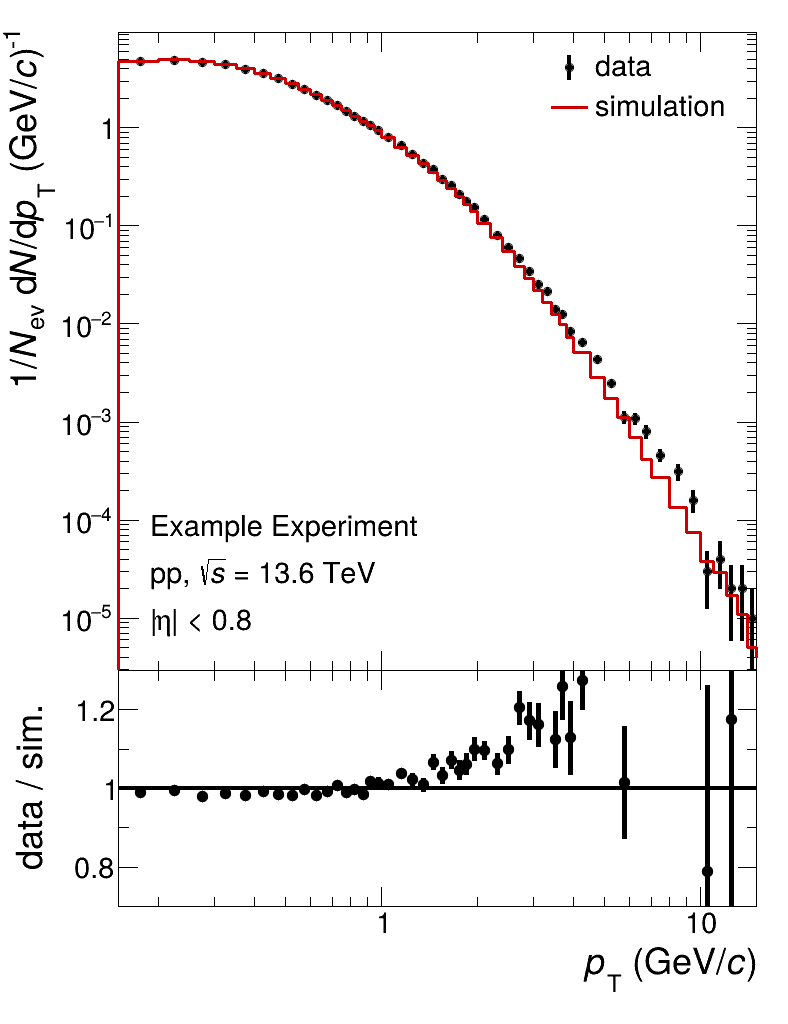
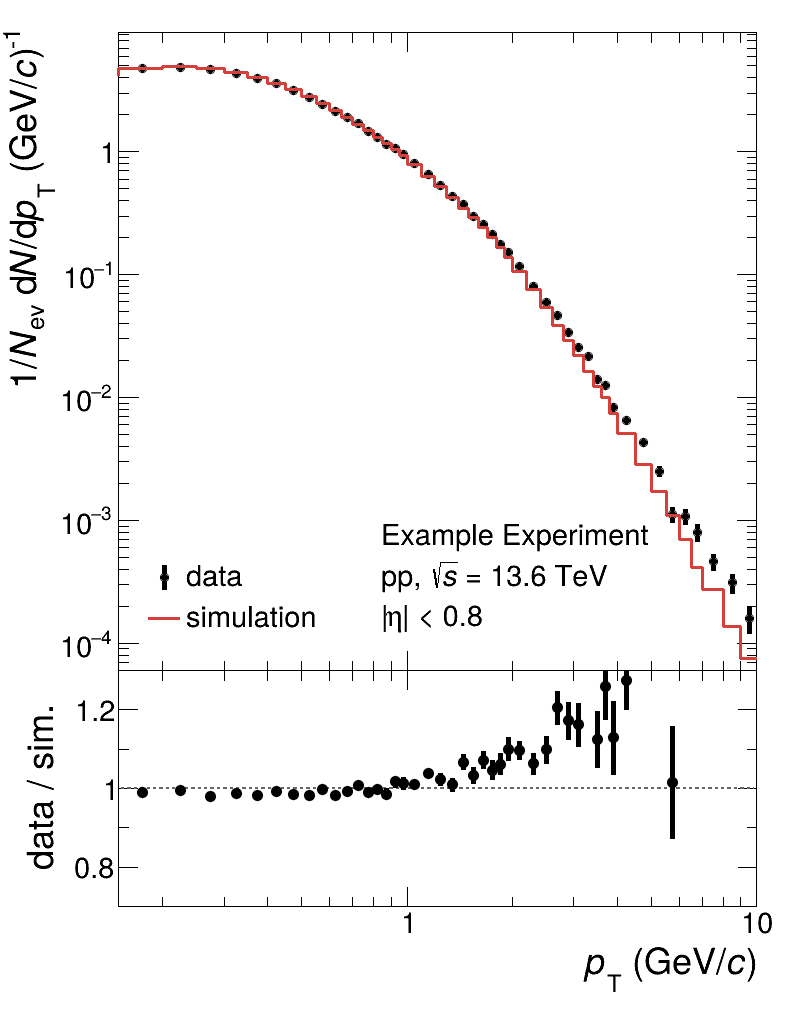
root macro and snippet of the spectrum ratio as the example plot

diff --git a/docs/site/template.html b/docs/site/template.html
@@ -2437,14 +2437,15 @@ plot = Plot("ptSpectrumRatio", "spectra", "1d_ratio")
 plot[1].AddData("ptSpec", "data", "data") \\
        .SetMarker(kFullCircle, 1.0, kBlack)
 plot[1].AddData("ptSpec", "mc", "simulation") \\
-       .SetDrawOption(hist_open).SetLine(kSolid, 3.0, kRed + 1)
+       .SetDrawOption(hist_open).SetLine(kSolid, 3.0, "#d6403a")
 plot[1].AddLegend()
 plot[1].AddText(["Example Experiment",
                  "pp, #sqrt{#it{s}} = 13.6 TeV", "|#eta| < 0.8"])
 plot[1]['Y'].SetLog()
-plot[2].AddRatio(["ptSpec", "data"], ["ptSpec", "mc"])
+plot[2].AddRatio(["ptSpec", "data"], ["ptSpec", "mc"]).SetRangeX(0.15, 6.0)
+plot[2].SetRefFunc("1").SetLine(kDashed, 2.0, kGray + 2)
 plot[2]['Y'].SetTitle("data / sim.").SetRange(0.7, 1.3)
-plot[0]['X'].SetLog().SetRange(0.15, 15.0)
+plot[0]['X'].SetLog().SetRange(0.15, 10.0)
 pm.AddPlot(plot)
 pm.SaveProject()`,
     cpp: `PlotManager pm("myProject");
@@ -2456,14 +2457,15 @@ Plot plot("ptSpectrumRatio", "spectra", "1d_ratio");
 plot[1].AddData("ptSpec", "data", "data")
        .SetMarker(kFullCircle, 1.0, kBlack);
 plot[1].AddData("ptSpec", "mc", "simulation")
-       .SetDrawOption(hist_open).SetLine(kSolid, 3.0, kRed + 1);
+       .SetDrawOption(hist_open).SetLine(kSolid, 3.0, "#d6403a");
 plot[1].AddLegend();
 plot[1].AddText({"Example Experiment",
                  "pp, #sqrt{#it{s}} = 13.6 TeV", "|#eta| < 0.8"});
 plot[1]['Y'].SetLog();
-plot[2].AddRatio({"ptSpec", "data"}, {"ptSpec", "mc"});
+plot[2].AddRatio({"ptSpec", "data"}, {"ptSpec", "mc"}).SetRangeX(0.15, 6.0);
+plot[2].SetRefFunc("1").SetLine(kDashed, 2.0, kGray + 2);
 plot[2]['Y'].SetTitle("data / sim.").SetRange(0.7, 1.3);
-plot[0]['X'].SetLog().SetRange(0.15, 15.0);
+plot[0]['X'].SetLog().SetRange(0.15, 10.0);
 pm.AddPlot(plot);
 pm.SaveProject();` },
   { id: "vertexZ", tab: "Inputs in lists, two files", title: "Data and simulation from analysis output: lists inside directories, in two files",

diff --git a/docs/slides/root-examples/ptSpectrumRatio.C b/docs/slides/root-examples/ptSpectrumRatio.C
@@ -49,7 +49,7 @@ void ptSpectrumRatio(const char* dataDir = "ExampleData", const char* output = "
       axis->SetTitleFont(43);
       axis->SetTitleSize(39);
     }
-    hist->GetXaxis()->SetRangeUser(0.15, 15.0);
+    hist->GetXaxis()->SetRangeUser(0.15, 10.0);
     hist->GetXaxis()->SetNoExponent();
     hist->GetXaxis()->SetTickLength(tickX);
     hist->GetYaxis()->SetTickLength(tickY);
@@ -63,13 +63,13 @@ void ptSpectrumRatio(const char* dataDir = "ExampleData", const char* output = "
   data->SetMarkerStyle(kFullCircle);
   data->SetMarkerColor(kBlack);
   data->SetLineColor(kBlack);
-  data->SetLineWidth(4);
-  mc->SetLineColor(kRed + 1);
+  data->SetLineWidth(5);
+  mc->SetLineColor(TColor::GetColor("#d6403a"));
   mc->SetLineWidth(3);
   data->Draw("E X0");
   mc->Draw("HIST ][ SAME");  // without the vertical lines at the outer edges
 
-  TLegend legend(0.69, 0.81, 0.95, 0.93);
+  TLegend legend(0.179, 0.047, 0.407, 0.169);
   legend.SetBorderSize(0);
   legend.SetFillStyle(0);
   legend.SetTextFont(43);
@@ -82,16 +82,17 @@ void ptSpectrumRatio(const char* dataDir = "ExampleData", const char* output = "
   text.SetNDC();
   text.SetTextFont(43);
   text.SetTextSize(31);
-  text.DrawLatex(0.19, 0.20, "Example Experiment");
-  text.DrawLatex(0.19, 0.13, "pp, #sqrt{#it{s}} = 13.6 TeV");
-  text.DrawLatex(0.19, 0.06, "|#eta| < 0.8");
+  text.SetTextAlign(12);
+  text.DrawLatex(0.484, 0.200, "Example Experiment");
+  text.DrawLatex(0.484, 0.139, "pp, #sqrt{#it{s}} = 13.6 TeV");
+  text.DrawLatex(0.484, 0.078, "|#eta| < 0.8");
 
   // lower pad: ratio
   bottom.cd();
   style(ratio, 0.067, 0.036);
   ratio->GetYaxis()->SetTitle("data / sim.");
   ratio->GetYaxis()->CenterTitle();
-  ratio->GetYaxis()->SetTitleOffset(1.45);
+  ratio->GetYaxis()->SetTitleOffset(1.27);
   ratio->GetYaxis()->SetRangeUser(0.7, 1.3);
   ratio->GetYaxis()->SetNdivisions(305);
   ratio->SetMarkerStyle(kFullCircle);
@@ -99,11 +100,14 @@ void ptSpectrumRatio(const char* dataDir = "ExampleData", const char* output = "
   ratio->SetMarkerColor(kBlack);
   ratio->SetLineColor(kBlack);
   ratio->SetLineWidth(5);
-  ratio->Draw("E X0");
-  TLine one(0.15, 1.0, 15.0, 1.0);
-  one.SetLineWidth(4);
-  one.Draw();
-  ratio->Draw("E X0 SAME");
+  ratio->Draw("AXIS");
+  TF1 one("one", "1", 0.15, 10.0);
+  one.SetLineStyle(kDashed);
+  one.SetLineWidth(2);
+  one.SetLineColor(kGray + 2);
+  one.Draw("SAME");
+  // the points only up to 6 GeV/c, where the data still have statistics
+  ratio->DrawCopy("E X0 SAME")->GetXaxis()->SetRangeUser(0.15, 6.0);
 
   canvas.SaveAs(output);
 }
